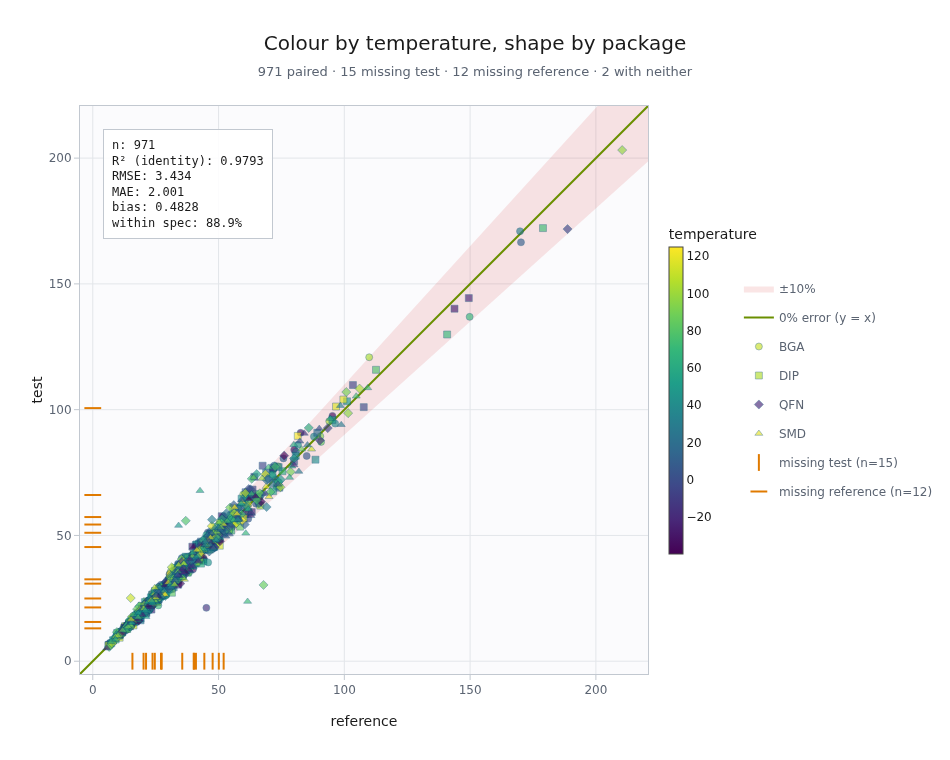
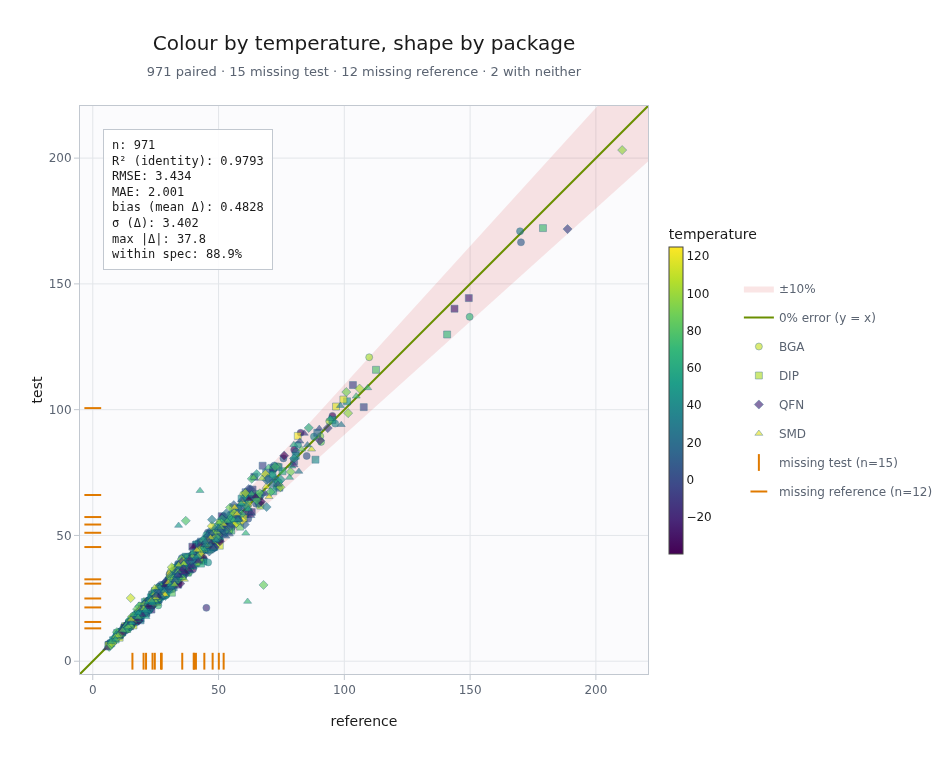
fix(plot): centre the title on the plot; pull the legend in; square preview
Title is centred on the plotting area (xref=paper) instead of Plotly's default
container-centre, which floated it right of the axes given the wide legend
margin. Right-legend margin 210→160 so the legend hugs the plot. The designer
preview renders as a centred square (a parity plot is square) instead of
stretched across a wide column, which was the main cause of the far legend and
off-centre title. Showcase screenshot regenerated.

diff --git a/parity_plot/plot.py b/parity_plot/plot.py
@@ -44,7 +44,7 @@ _LEGEND_LAYOUTS = {
     # of that domain floats above the visible frame.
     "right": (
         dict(orientation="v", x=1.02, xanchor="left", y=0.5, yanchor="middle"),
-        dict(l=80, r=210, t=100, b=80),
+        dict(l=80, r=160, t=100, b=80),
     ),
     "bottom": (
         dict(orientation="h", x=0.5, xanchor="center", y=-0.09, yanchor="top"),
@@ -480,6 +480,13 @@ def _apply_layout(
         template=theme.template_name,
         title=dict(
             text=plot.title,
+            # Centre on the plotting area (paper), not the whole figure: the
+            # asymmetric margins (a wide right margin for the legend) push the
+            # axes left, and Plotly's default container-centred title then floats
+            # right of the plot.
+            x=0.5,
+            xanchor="center",
+            xref="paper",
             subtitle=dict(
                 text=stats_mod.summarize_nulls(summary, data.x_label, data.y_label),
                 font=dict(color=theme.font_muted, size=13),

diff --git a/parity_plot/designer/app.py b/parity_plot/designer/app.py
@@ -115,7 +115,12 @@ def build_app(
                 settings_column()
 
             with ui.column().classes("grow"):
-                plot_view = ui.plotly(state.figure()).classes("w-full h-[55vh]")
+                # A parity plot is square; render the preview square and centred
+                # rather than stretched across a wide column, so the legend hugs
+                # the plot and the (paper-centred) title lines up with it.
+                plot_view = ui.plotly(state.figure()).classes(
+                    "aspect-square h-[70vh] mx-auto"
+                )
                 # A persistent, colour-coded status bar -- no toasts. Errors (a
                 # validation problem, a bad column) stay here until the next
                 # action clears them, rather than popping and vanishing.
